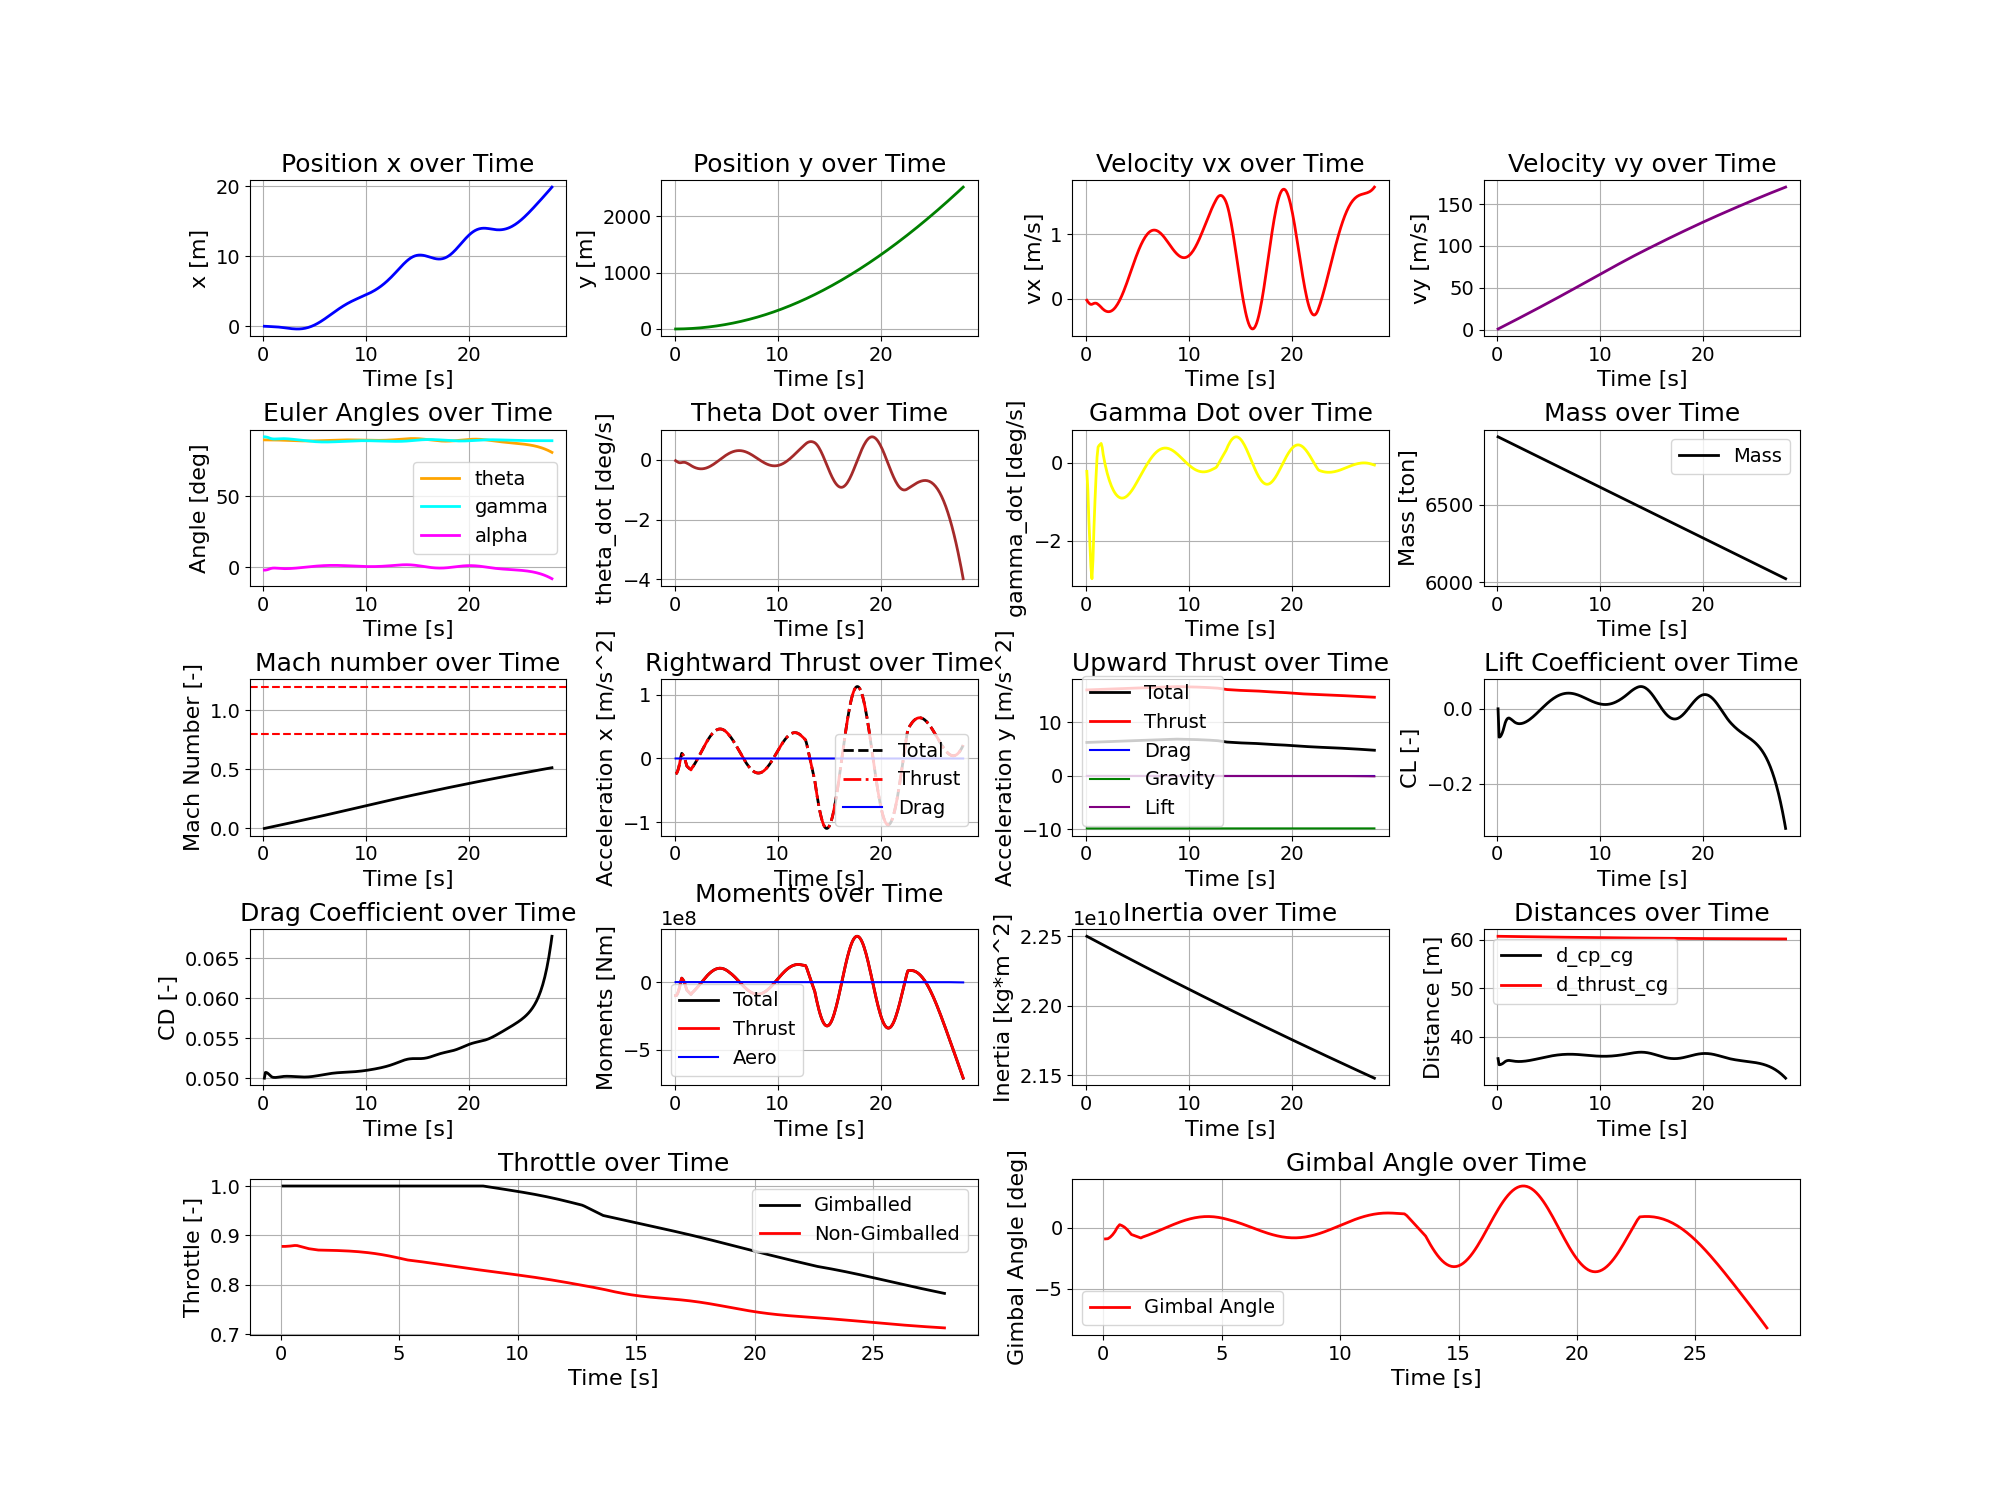
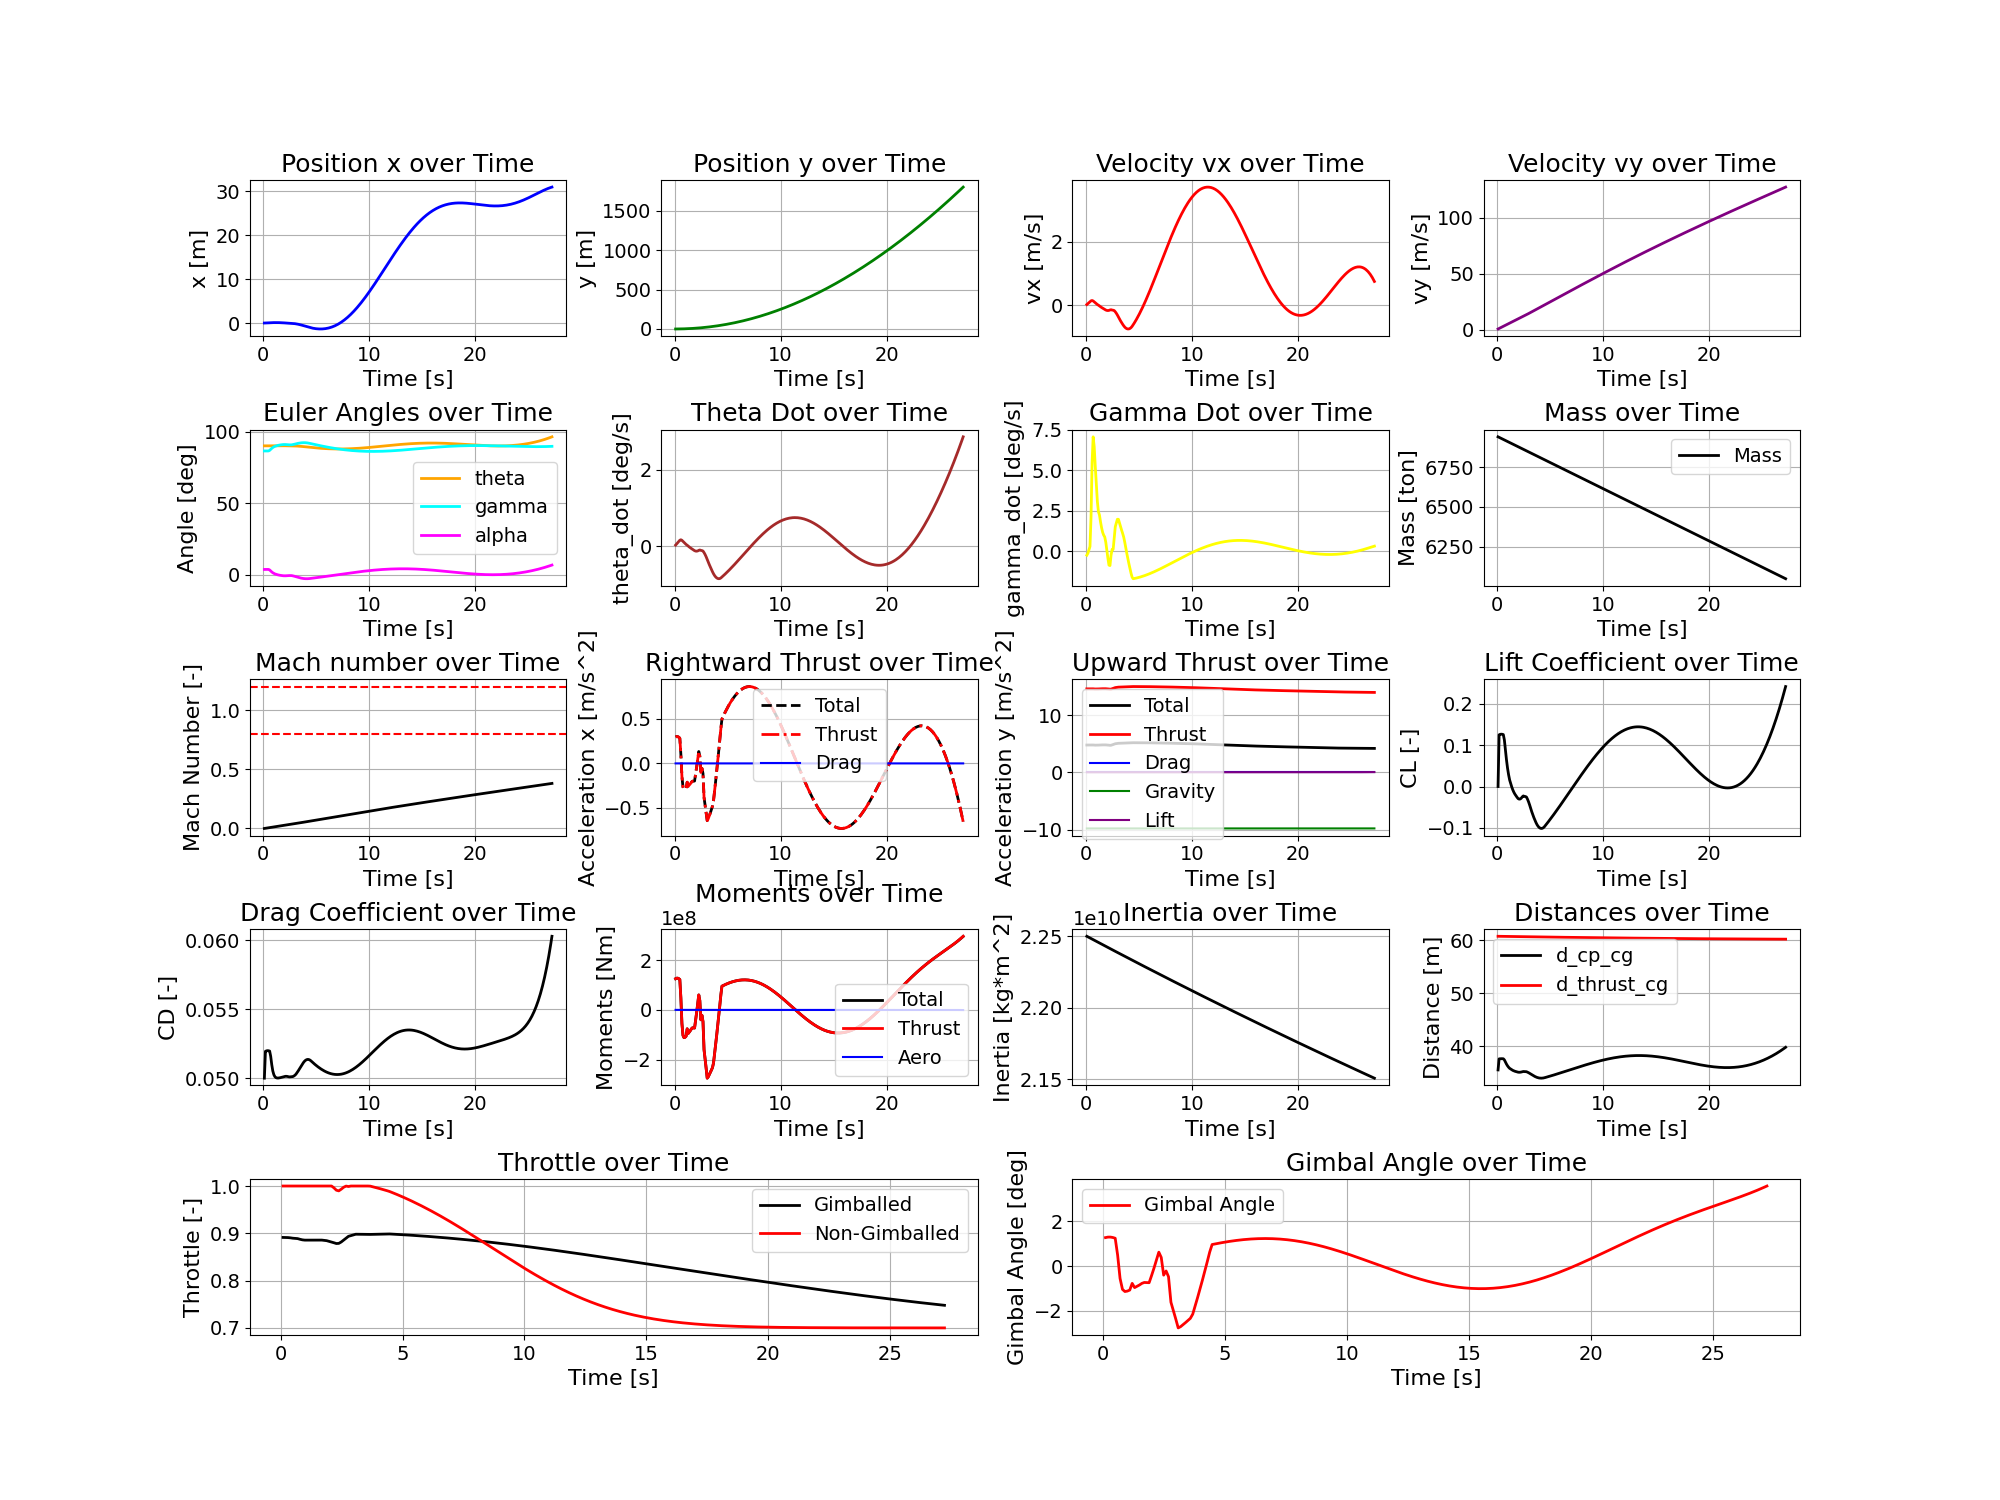
trying new things

diff --git a/src/envs/env_endo/init_vertical_rising.py b/src/envs/env_endo/init_vertical_rising.py
@@ -92,11 +92,10 @@ def truncated_func(state, reference_trajectory_func, final_reference_time):
     # Now check if time is greater than final_reference_time + 10 seconds
     elif time > final_reference_time + 10:
         return True
-    # Now check if error_x is greater than 1000m
-    elif error_x > 1000:
+    # Now check if error_y is greater than 2000m for up to 6000m, then 4000m up to 20000m
+    elif y < 6000 and (error_y > 2000 or error_x > 1000):
         return True
-    # Now check if error_y is greater than 1000m
-    elif error_y > 2000:
+    elif y < 20000 and (error_y > 4000 or error_x > 2000):
         return True
     elif error_gamma > 4:
         return True
